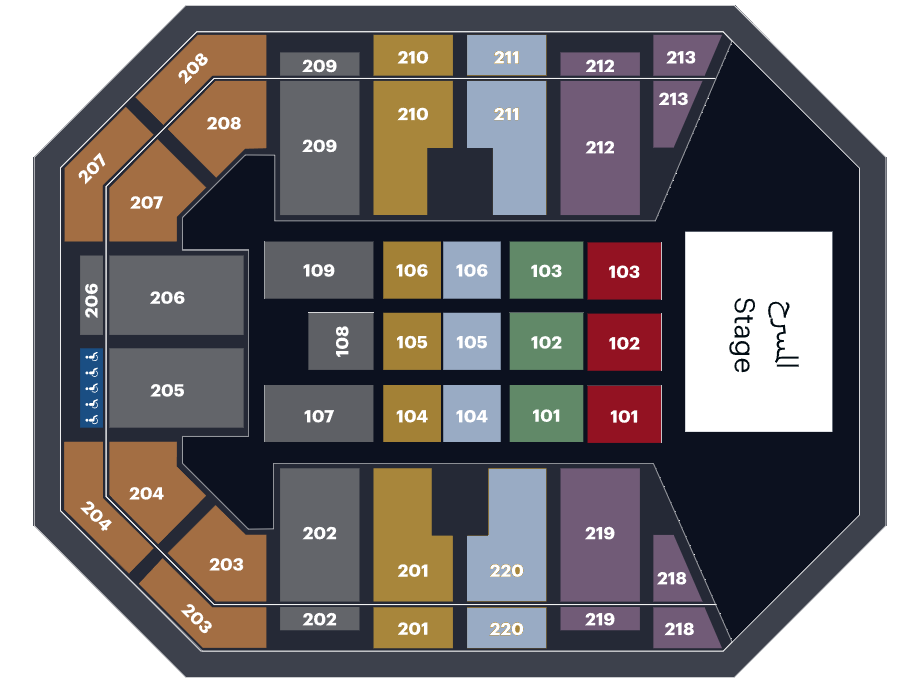
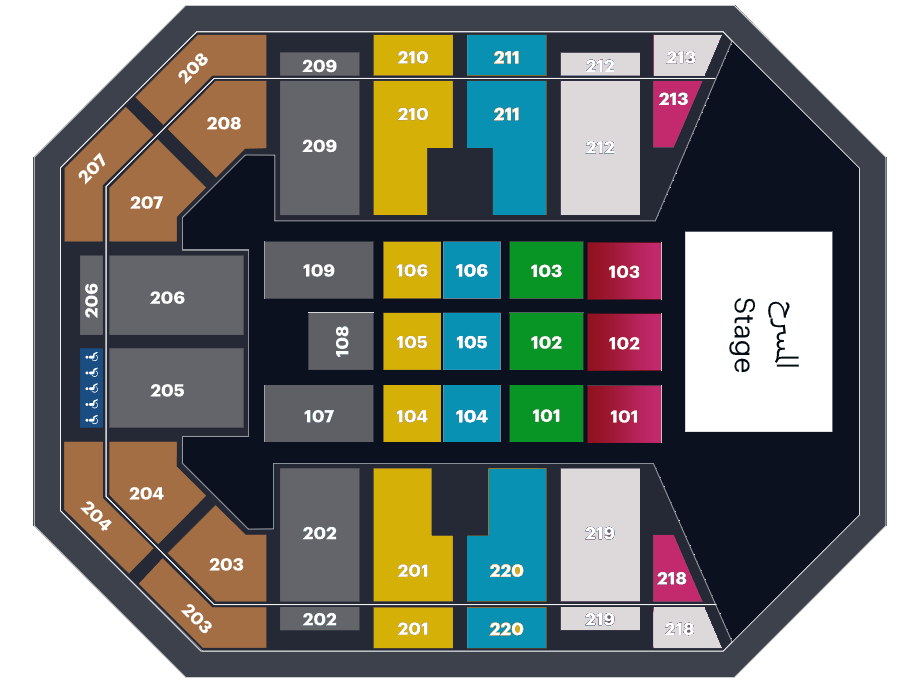
style(seat-selection): update seat colors and simplify category structure
- Change Platinum seat color from purple to white for better visibility
- Remove redundant seat categories (Gold A/B, Silver A/B)
- Update VVIP color to a slightly different purple shade
- Consolidate color definitions across components

Changed region(s): [[0.3982, 0.0306, 0.7965, 0.6419], [0.3982, 0.6725, 0.7965, 0.9476]]

diff --git a/app/components/seat-selection/Legend.tsx b/app/components/seat-selection/Legend.tsx
@@ -4,15 +4,44 @@ import { useSeatStore } from "@/lib/seat-store";
 import { useCurrency } from "../CurrencyProvider";
 
 const categoryInfo = {
-  VVIP: { color: "bg-purple-500", icon: "●", name: "VVIP", nameAr: "كراسي ارضية" },
-  VIP: { color: "bg-red-500", icon: "●", name: "VIP", nameAr: "كراسي ارضية" },
-  Royal: { color: "bg-green-500", icon: "●", name: "Royal", nameAr: "كراسي ارضية" },
-  Diamond: { color: "bg-blue-500", icon: "●", name: "Diamond", nameAr: "كراسي ارضية" },
-  Platinum: { color: "bg-purple-400", icon: "●", name: "Platinum", nameAr: "كراسي مدرجات" },
+  VVIP: { color: "bg-purple-600", icon: "●", name: "VVIP", nameAr: "كراسي ارضية" },
+  VIP: { color: "bg-pink-600", icon: "●", name: "VIP", nameAr: "كراسي ارضية" },
+  Royal: { color: "bg-green-600", icon: "●", name: "Royal", nameAr: "كراسي ارضية" },
+  Diamond: { color: "bg-cyan-500", icon: "●", name: "Diamond", nameAr: "كراسي ارضية" },
+  Platinum: { color: "bg-white", icon: "●", name: "Platinum", nameAr: "كراسي مدرجات" },
   Gold: { color: "bg-yellow-500", icon: "●", name: "Gold", nameAr: "كراسي ارضية" },
   Silver: { color: "bg-gray-400", icon: "●", name: "Silver", nameAr: "كراسي أساسية" },
   Bronze: { color: "bg-orange-500", icon: "●", name: "Bronze", nameAr: "كراسي مميزات" },
 };
+
+
+
+
+const colors = {
+    VVIP: "#9333ea", // Purple (bg-purple-600)
+    VIP: "#db2777", // Pink (bg-pink-600)
+    Royal: "#16a34a", // Green (bg-green-600)
+    Diamond: "#0891b2", // Cyan (bg-cyan-600)
+    Platinum: "#6b7280", // Gray (bg-gray-500)
+    "Gold A": "#ca8a04", // Yellow (bg-yellow-600)
+    "Gold B": "#ca8a04", // Yellow (bg-yellow-600)
+    Gold: "#ca8a04", // Yellow (bg-yellow-600)
+    "Silver A": "#9ca3af", // Gray (bg-gray-400)
+    "Silver B": "#9ca3af", // Gray (bg-gray-400)
+    Silver: "#9ca3af", // Gray (bg-gray-400)
+    Bronze: "#ea580c", // Orange (bg-orange-600)
+  };
+
+
+
+
+
+
+
+
+
+
+
 
 export default function Legend() {
   const { seats } = useSeatStore();

diff --git a/app/components/seat-selection/SeatMap.tsx b/app/components/seat-selection/SeatMap.tsx
@@ -13,16 +13,12 @@ import {
 // Helper function to get seat category background color
 const getSeatCategoryColor = (category: string) => {
   const colors = {
-    VVIP: "#9333ea", // Purple (bg-purple-600)
+    VVIP: "#9333a3", // Purple (bg-purple-600)
     VIP: "#db2777", // Pink (bg-pink-600)
     Royal: "#16a34a", // Green (bg-green-600)
     Diamond: "#0891b2", // Cyan (bg-cyan-600)
-    Platinum: "#6b7280", // Gray (bg-gray-500)
-    "Gold A": "#ca8a04", // Yellow (bg-yellow-600)
-    "Gold B": "#ca8a04", // Yellow (bg-yellow-600)
+    Platinum: "#fff", // Gray (bg-gray-500)
     Gold: "#ca8a04", // Yellow (bg-yellow-600)
-    "Silver A": "#9ca3af", // Gray (bg-gray-400)
-    "Silver B": "#9ca3af", // Gray (bg-gray-400)
     Silver: "#9ca3af", // Gray (bg-gray-400)
     Bronze: "#ea580c", // Orange (bg-orange-600)
   };

diff --git a/app/components/seat-selection/EventSeatSelection.tsx b/app/components/seat-selection/EventSeatSelection.tsx
@@ -108,7 +108,7 @@ function getCategoryColor(category: string): string {
     VIP: "bg-red-500",
     Royal: "bg-green-500",
     Diamond: "bg-cyan-400",
-    Platinum: "bg-purple-500",
+    Platinum: "bg-white",
     Gold: "bg-yellow-500",
     Silver: "bg-gray-400",
     Bronze: "bg-orange-500",

diff --git a/app/components/seat-selection/Seat.tsx b/app/components/seat-selection/Seat.tsx
@@ -30,7 +30,7 @@ const seatColors = {
     booked: "bg-gray-600",
   },
   Platinum: {
-    available: "bg-purple-500 hover:bg-purple-400", // Purple
+    available: "bg-white hover:bg-purple-400", // Purple
     selected: "bg-gray-800 ring-2 ring-gray-600",
     booked: "bg-gray-600",
   },
